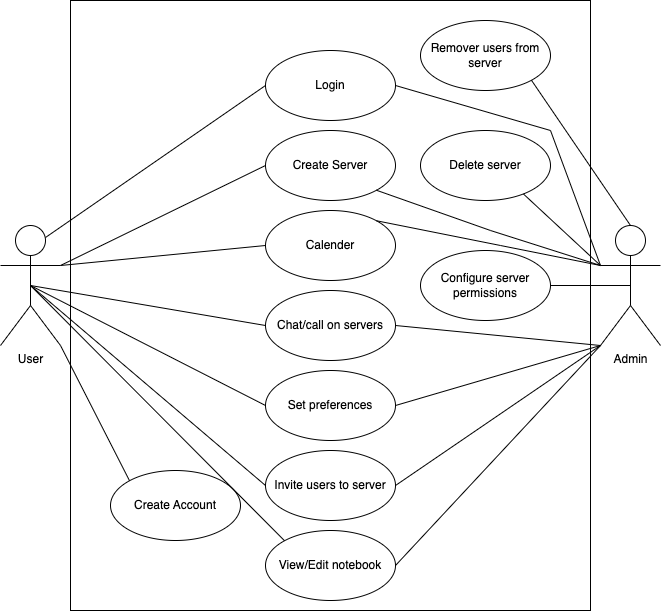
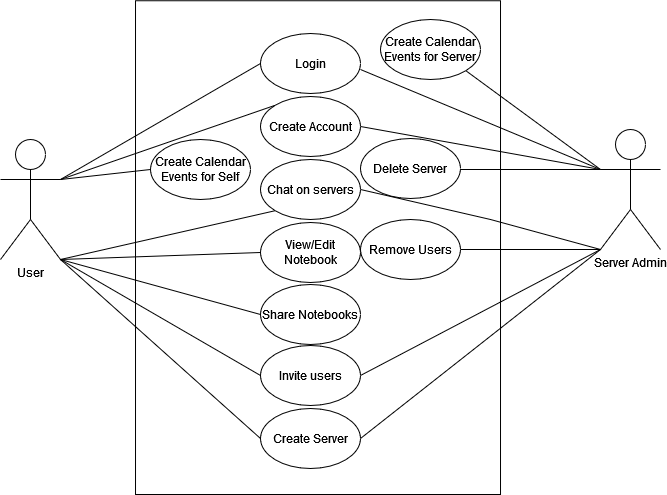
Fix use case diagram, amend design

diff --git a/detailed_design_doc.md b/detailed_design_doc.md
@@ -1,9 +1,9 @@
 # Detailed Design Document
 # VOX - Real-time Group Chat App
 
-February 24, 2023
+May 2nd, 2023
 
-**Version** 1
+**Version** 2
 
 ![Logo](./Images/small_VOXLOGO.png)
 
@@ -13,18 +13,18 @@ Dr Schwesinger
 **Submitted By:**  
 Hamad Ahmed  
 Gabe Leffew  
-Jesse Fullington  
 Benjamin Lloyd  
 
 
 ## Revision History
 | Date Created  | Version # |
 | ------------- |:---------:|
+| 4/12/2023     | 2         |
 | 2/15/2023     | 1         |
 
 
 ## 1.0 Introduction
-Our goal is to create a centralized location for collaboration in the classroom setting and beyond. Schedule events for your team and find the best team to tackle your toughest goals. Save notes for classes and share with your group to always be on the same page. Manage your groups and create a hierarchy as you see fit, whether you want one to rule them all or total anarchy. Create servers for any group like a club, a group of friends, or your tri-annual family reunion.
+Our goal is to create a centralized location for collaboration in the classroom setting and beyond. Schedule events for your team and find the best team to tackle your toughest goals. Save notes for classes and share with your group to always be on the same page. Create servers for any group like a club, a group of friends, or your tri-annual family reunion.
 
 ## 1.2 Scope
 
@@ -57,7 +57,7 @@ Our goal is to create a centralized location for collaboration in the classroom 
 - Design Details: Do not forget to enter valid account information.
 - Constraints: Can only enter alphanumeric characters for username.
 - Assumptions: none  
-![Sequence Diagram for create account](./Images/Sequence%20Diagrams/Create_Account_SD.jpg))
+![Sequence Diagram for create account](./Images/Sequence%20Diagrams/Create_Account_SD.jpg)
 
 #### 3.3.2 User Login
 - Story: To keep using the application more than time, you can login into your account and be back where you left off.
@@ -103,7 +103,7 @@ Our goal is to create a centralized location for collaboration in the classroom 
 ##### 3.3.5.2 Share notebook
 - Story: My classmate missed class and didn't get the notes. Since we are in the same server for the class I would like to be able to share the notes with them.
 - Description: A user of a server may share their notebook with other users of the same server. This would be viewable in a column that would show who all in the server shares their notes and the user would be able to choose any of them.
-- Preconditions: Must have an account and be a part of a server && Notebook must be shared with server.
+- Preconditions: Must have an account and be a part of a server 
 - Postconditions: None
 - Design Details: A user viewing a shared notebook may not make edits to the notebook, READ ONLY. 
 - Constraints: Only owner of notebook may edit the notebook, shared users may only view notes
@@ -113,7 +113,7 @@ Our goal is to create a centralized location for collaboration in the classroom 
 #### 3.3.6 Calendar
 ##### 3.3.6.1 Create event
 - Story:I am a professor that is having an assignemnt due this sunday, and I want to put it on the calendar so my pupils are aware of it.
-- Description:Add an event to the calendar either for personal planning or to let others know of it.
+- Description:Add an event to the calendar either for personal planning or for a whole server to see
 - Preconditions: Must have an Account
 - Postconditions: Event is added to calendar
 - Design Details: Date, Description, either personal or server-based
@@ -122,7 +122,7 @@ Our goal is to create a centralized location for collaboration in the classroom 
 ![Create Event Sequence Diagram](./Images/Sequence%20Diagrams/CreateEventSequence.png)
 
 ##### 3.3.6.2 Remove event 
-- Story:We were going to have an exam on Friday, but my students are not ready for it, I need a way to remove it from the Calendar
+- Story: We were going to have an exam on Friday, but my students are not ready for it, I need a way to remove it from the Calendar
 - Description: Delete an already-existing event from a calendar if plans change
 - Preconditions: Must have an existing event
 - Postconditions: Event is deleted from calendar, either server or personal
@@ -160,16 +160,6 @@ Our goal is to create a centralized location for collaboration in the classroom 
 - Constraints: Only users with an admin preference are able to invite other users to the server. This is iff the server is considered a `private` server.
 - Assumptions: None  
 ![Invite a User](./Images/Sequence%20Diagrams/inviteuserSD.png)
-
-### 3.4 Minor Use Cases
-#### 3.4.1 Configure server permissions
-- Story: My server is getting huge and trying to moderate it by myself has become too much to handle. I need a way to allow other people to have some power to moderate.
-- Description: The server should be configurable to allow other users to have some abilities similar to the server owner.
-- Preconditions: None
-- Postconditions: The server preferences will be updated if anything changed.
-- Design Details: The owner should be the only one able to add/remove priveleges. The configurable permissions are the ability to remove users.
-- Constraints: The owner cannot be demoted by any lower priveleged member.
-- Assumptions: None
 
 
 ## 4.0 Systems
